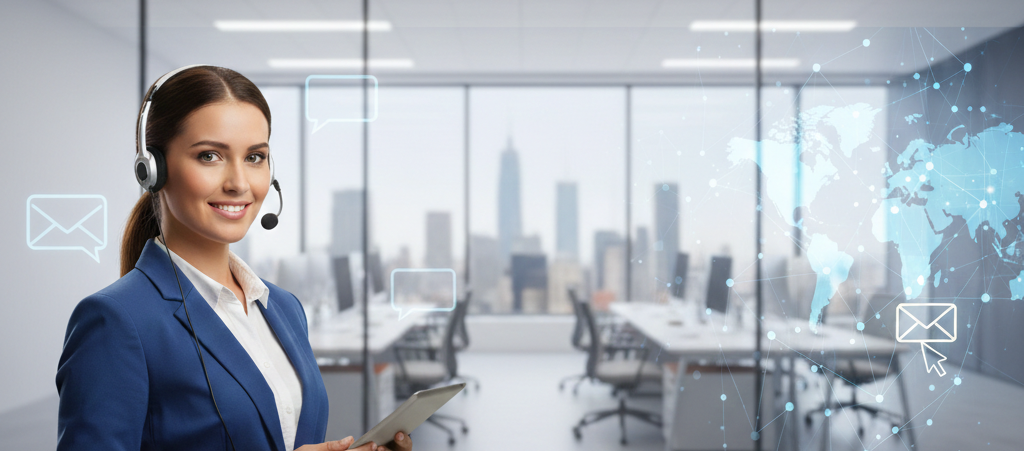
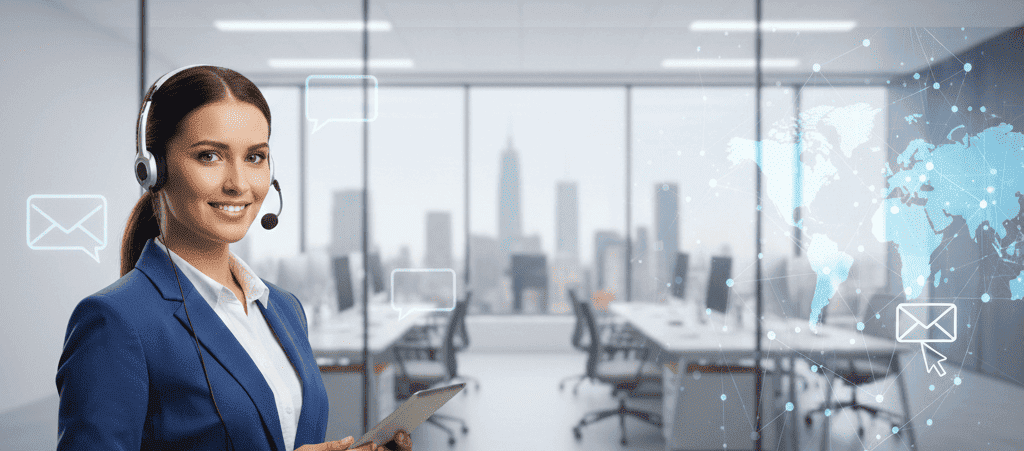
optimization_images

diff --git a/src/pages/WhyChooseUs.jsx b/src/pages/WhyChooseUs.jsx
@@ -3,12 +3,12 @@ import PageHeader from '../components/PageHeader';
 import { Shield, Globe, Users, Award } from 'lucide-react';
 import '../styles/WhyChooseUs.css';
 import Contact from '../sections/Contact';
-import headBg from '../assets/images/why-choose-us-header.png';
-import specializedAviation from '../assets/images/specialized-aviation.png';
-import globalExpertise from '../assets/images/global-expertise.png';
-import aviationSupport from '../assets/images/aviation-support.png';
-import ecoAviation from '../assets/images/eco-aviation.png';
-import sectionBg from '../assets/images/services-bg.png';
+import headBg from '../assets/images/why-choose-us-header.jpg';
+import specializedAviation from '../assets/images/specialized-aviation.jpg';
+import globalExpertise from '../assets/images/global-expertise.jpg';
+import aviationSupport from '../assets/images/aviation-support.jpg';
+import ecoAviation from '../assets/images/eco-aviation.jpg';
+import sectionBg from '../assets/images/services-bg.jpg';
 
 const WhyChooseUs = () => {
     return (

diff --git a/src/styles/HomeSections.css b/src/styles/HomeSections.css
@@ -254,7 +254,7 @@
 /* Services Grid Redesign */
 .services-grid-redesign {
     padding: 120px 20px;
-    background: url('../assets/images/premium_aviation_bg.png') center/cover no-repeat;
+    background: url('../assets/images/premium_aviation_bg.jpg') center/cover no-repeat;
     background-attachment: fixed;
     position: relative;
     overflow: hidden;
